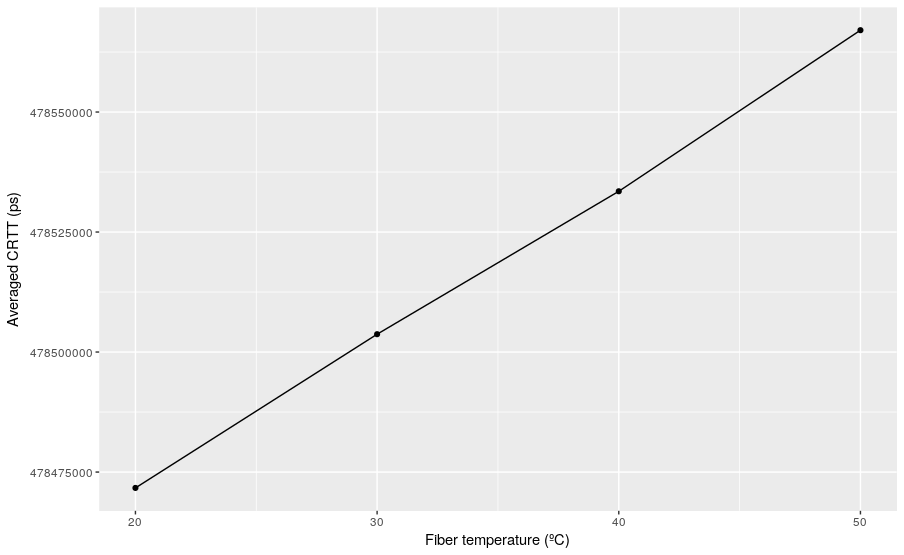
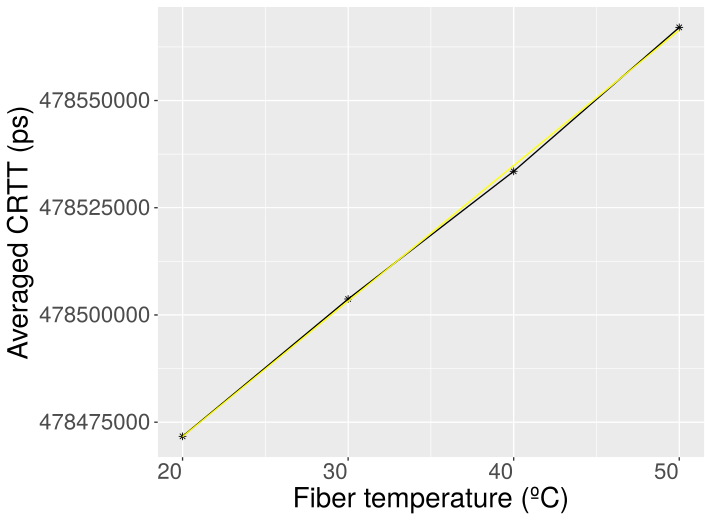
src/img: Actualizadas las gráficas de los experimentos de cambio de temperatura
Además se ha añadido un caption general para la figura 14 que no estaba
incluido.

diff --git a/paper_src/sec/experiments.tex b/paper_src/sec/experiments.tex
@@ -341,6 +341,8 @@ divide by the total link length: $0.14 ps/ºC \cdot km$.
 			sightly influenced by changes in the cable round-trip time.}
 		\label{fig:ppsvscrtt}
 	\end{subfigure}
+	\caption{Evaluation of the cable \textit{round-trip} time and the PPS 
+		offset with variable temperature conditions for the fibre link.}
 \end{figure}
 
 Figure \ref{fig:crttvstemp} shows a clear linear dependency between the 
